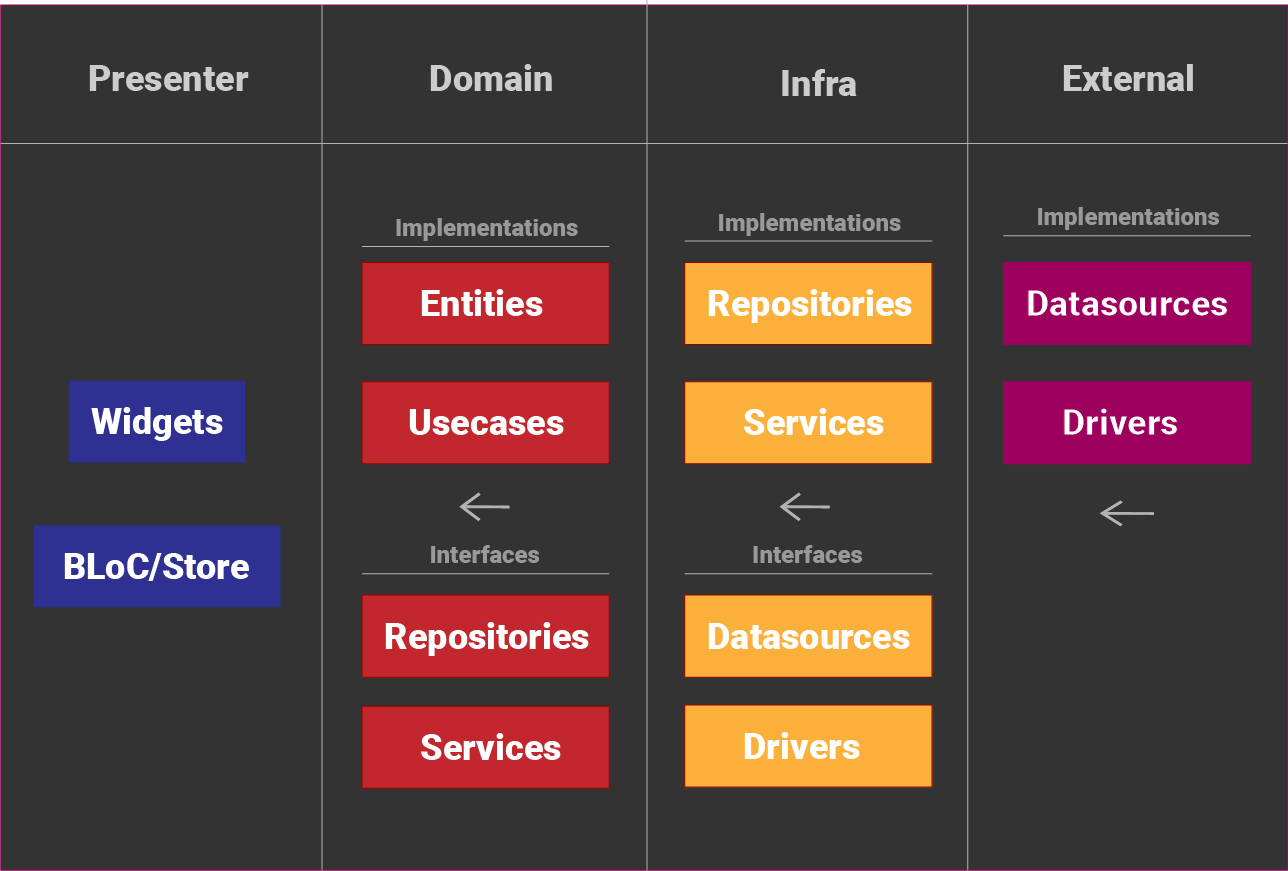
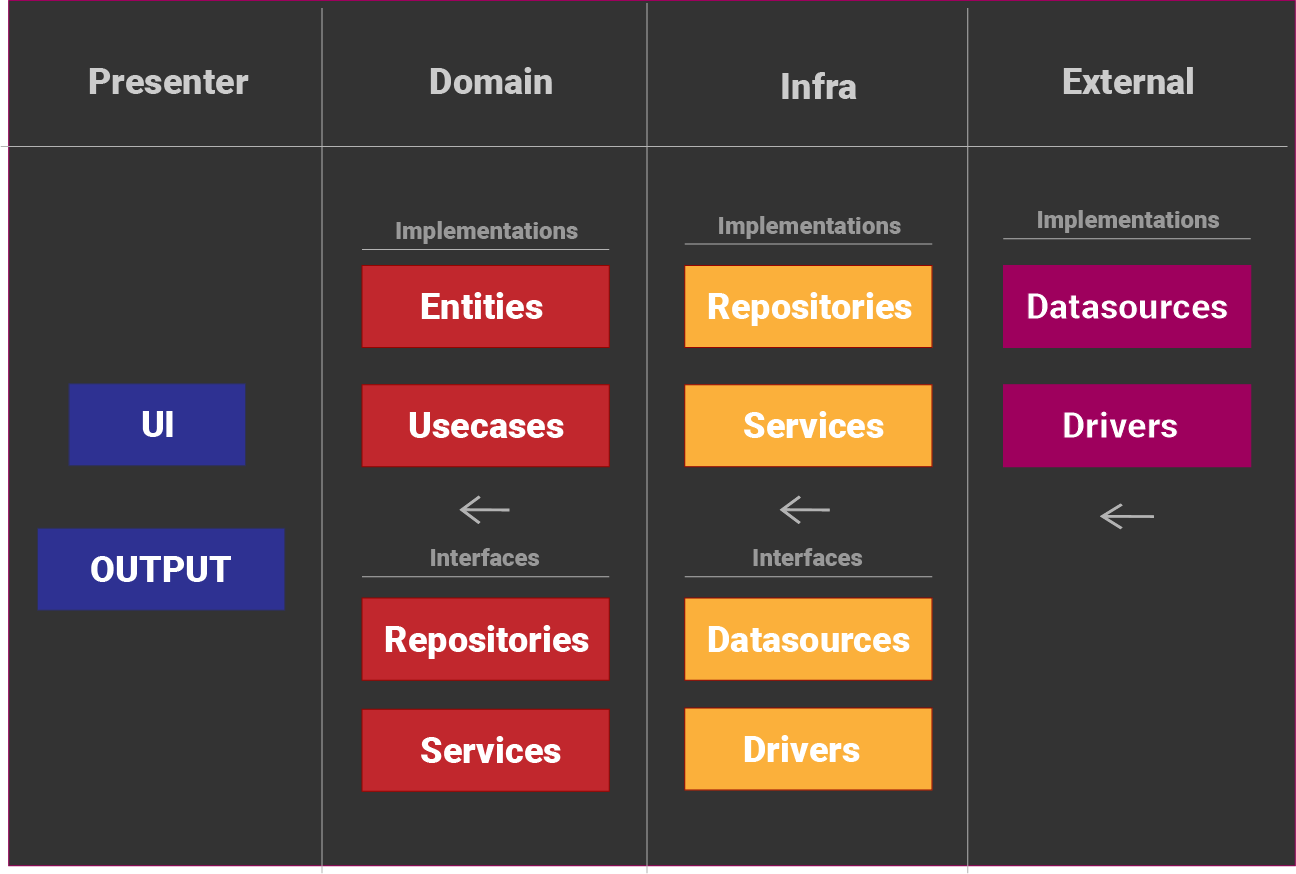
fix texts

diff --git a/README.md b/README.md
@@ -20,16 +20,16 @@ Para essa proposta nos basearemos nas camadas da Arquitetura Limpa proposta por 
 
 ## Regras de Negócio Corporativas
 
-São as regras de negócio cruciais para a sua aplicação, são representadas por modelos de dados denominado "Entidades", essa camada tem as regras mais sensíveis de um sistema, por isso ela está no topo das camadas. Uma "Entidade" deve ser pura, ou seja, não deve conhecer nenhuma outra camada, porém é conhecida pelas outras camadas.
+São as regras de negócio cruciais para a sua aplicação, são representadas por modelos de dados denominado **"Entidades"**, essa camada tem as regras mais sensíveis de um sistema, por isso ela está no topo das camadas. Uma "Entidade" deve ser pura, ou seja, não deve conhecer nenhuma outra camada, porém é conhecida pelas outras camadas.
 
 
 ## Regras de Negócio da Aplicação
 
-São as regras que só o computador pode executar, aqui temos uma representação de comandos chamados de "Casos de Uso", e basicamente representam as ações que um usuário pode fazer na aplicação. 
+São as regras que só o computador pode executar, aqui temos uma representação de comandos chamados de **"Casos de Uso"**, e basicamente representam as ações que um usuário pode fazer na aplicação. 
 
-Um "Caso de Uso" conhece apenas as Entidades, porém não sabe nada sobre as implementações das camadas de mais baixo nível. 
+Um **"Caso de Uso"** conhece apenas as Entidades, porém não sabe nada sobre as implementações das camadas de mais baixo nível. 
 
-Se um "Caso de Uso" precisar acessar uma camada superior, deverá fazê-lo por meio de contratos definidos por uma interface, seguindo o “Princípio de Inversão de Dependências” do [SOLID](https://www.youtube.com/watch?v=mkx0CdWiPRA).
+Se um **"Caso de Uso"** precisar acessar uma camada superior, deverá fazê-lo por meio de contratos definidos por uma interface, seguindo o **“Princípio de Inversão de Dependências”** do [SOLID](https://www.youtube.com/watch?v=mkx0CdWiPRA).
 
 
 ## Adaptadores de Interface
@@ -39,20 +39,20 @@ Essa camada é responsável por “dar suporte” para as camadas mais altas (Re
 
 ## Frameworks & Drivers
 
-Todas as abstrações feitas pelas camadas mais altas foram para que você facilmente plugue artefatos externos como uma BASE DE DADOS ou uma INTERFACE DE USUÁRIO.
+Todas as abstrações feitas pelas camadas mais altas foram para aumentar a facilidade do plugin&play dos artefatos externos como uma BASE DE DADOS ou uma INTERFACE DE USUÁRIO(UI).
 
-Essa camada normalmente sofre muitas modificações, porém com uma arquitetura limpa aplicada isso pode ser completamente indolor. 
+Essa camada normalmente sofre muitas modificações, porém com uma arquitetura limpa aplicada isso pode ser completamente indolor e segura para a sua regra de negócio.
 
-Você poderá trocar uma API REST por outra em GraphQl sem afetar suas regras de negócio. Você poderá trocar sua interface gráfica completamente ou até mesmo trocar do Flutter para o AngularDart que as Regras de Negócio ainda assim ficarão funcionais!
+Podemos então trocar uma API REST por outra em GraphQl sem afetar suas regras de negócio. Poderemos também trocar a interface gráfica completamente ou até mesmo trocar o Flutter pelo AngularDart e mesmo assim as Regras de Negócio ficarão funcionais!
 
-Dado as descrições iremos apresentar a proposta de Arquitetura Limpa da Flutterando, a “Clean Dart”.
+Dado as descrições iremos apresentar a proposta de Arquitetura Limpa da Flutterando, a **“Clean Dart”**.
 
 
 # Clean Dart
 
 ![Image 1](imgs/img1.png)
 
-Usando o Flutter como exemplo teremos então quatro camadas mantendo a “Arquitetura de Plugin”, com foco principal no Domínio da Aplicação, camada esta que hospeda as 2 Regras de Negócio principais, Entidades e Casos de Uso.
+Usando o Flutter como exemplo teremos então quatro camadas mantendo a “Arquitetura de Plugin”, com foco principal no Domínio da Aplicação, camada esta que hospeda as 2 Regras de Negócio principais, estamos falando das **Entidades** e dos **Casos de Uso**.
 
 ![Image 1](imgs/img2.png)
 
@@ -61,51 +61,61 @@ A proposta de Arquitetura se propõe a desacoplar as camadas mais externas e pre
 
 ## Presenter
 
-A Camada de Presenter fica responsável por declarar as entradas, saídas e interações da aplicação. 
+A Camada **Presenter** fica responsável por declarar as entradas, saídas e interações da aplicação. 
 
 Usando o Flutter como exemplo, hospedaremos os Widgets, Pages e também Alguma Gerência de Estado, já no backend como exemplo, seria nesta camada onde colocaríamos os Handlers ou Commands da nossa API.
 
 
 ## Domain
 
-A camada de Domain hospedará as Regras de Negócio Corporativa(Entity) e da Aplicação(Usecase).
+A camada de **Domain** hospedará as Regras de Negócio Corporativa(Entity) e da Aplicação(Usecase).
 
-Nossas Entidades devem ser Objetos simples podendo conter regras de validação dos seus dados por meio de funções ou ValueObjects. A Entidade não pode usar nenhum Objeto das outras camadas.
+Nossas Entidades devem ser Objetos simples podendo conter regras de validação dos seus dados por meio de funções ou ValueObjects. **A Entidade não deve usar nenhum Objeto das outras camadas.**
 
-Os Casos de Uso devem executar a lógica necessária para resolver o problema. Se o Caso de Uso precisar de algum acesso externo deve ser feito por meio de contratos de interface.
+Os **Casos de Uso** devem executar a lógica necessária para resolver o problema. Se o **Caso de Uso** precisar de algum acesso externo então esse acesso deve ser feito por meio de contratos de interface que serão implementados em uma camada de mais baixo nível.
 
-Na camada Domain a única coisa que dever ser responsável apenas pela execução da lógica de negócio, não deve haver implementações de outros Objetos como Repositories ou Services dentro do Domain. 
+Na camada **Domain** dever ser responsável apenas pela execução da lógica de negócio, não deve haver implementações de outros Objetos como Repositories ou Services dentro do **Domain**. 
 
-Já em Repository como exemplo, teremos que ter apenas o contrato de interfaces e a responsabilidade de implementação desse objeto deverá ser repassado a outra camada mais baixa.
+Tomando um Repository como exemplo, teremos que ter apenas o contrato de interfaces(Abstrações) e a responsabilidade de implementação desse objeto deverá ser repassado a outra camada mais baixa.
 
 
 ## Infrastructure(Infra)
 
-Está camada dá suporte a camada Domain implementando suas interfaces. Para isso, essa camada se propõem a adaptar os dados externos para que possa cumprir os contratos do domínio.
+Está camada dá suporte a camada **Domain** implementando suas interfaces. Para isso, essa camada se propõem a adaptar os dados externos para que possa cumprir os contratos do domínio.
 
-Muito provavelmente nessa camada iremos implementar alguma interface de Repository ou Services que pode ou não depender de dados externos como uma API ou acesso a algum Hardware como por exemplo Bluetooth. 
+Muito provavelmente nessa camada iremos implementar alguma interface de um Repository ou Services que pode ou não depender de dados externos como uma API ou acesso a algum Hardware como por exemplo Bluetooth. 
 
 Para que o Repository possa processar e adaptar os dados externos devemos criar contratos para esses serviços visando passar a responsabilidade de implementação para a camada mais baixa da nossa arquitetura.
 
-Como sugestão, iremos criar objetos de DataSource quando quisermos acessar um dado externo, uma BaaS como Firebase ou um Cache Local usando SQLite por exemplo.
-Outra sugestão seria criar objetos denominados Drivers para interfacear a comunicação com algum Hardware do dispositivo.
+Como sugestão, iremos criar objetos de **DataSource** quando quisermos acessar um dado externo, uma BaaS como Firebase ou um Cache Local usando SQLite por exemplo.
+Outra sugestão seria criar objetos denominados **Drivers** para interfacear a comunicação com algum Hardware do dispositivo.
 
 Os acessos externos como Datasources e Drivers devem ser implementados por outra camada, ficando apenas os Contratos de Interface nesta camada de Infra.
 
 
 ## External
 
-Aqui começaremos a implementar os acessos externos e que dependem de um serviço, package ou acesso muito específico.
+Aqui começaremos a implementar os acessos externos e que dependem de um hardware, package ou acesso muito específico.
 
-Basicamente a camada External deve conter tudo aquilo que terá grandes chances de ser alterado sem que você possa intervir.
+Basicamente a camada External deve conter tudo aquilo que terá grandes chances de ser alterado sem que o programador possa intervir diretamente no projeto.
 
-No Flutter por exemplo, para cache local usamos o SharedPreferences, mas talvez em alguma estágio do projeto a implementação do SharedPreferences não seja mais suficiente para a aplicação e deve ser substituída por outro package como Hive, nesse ponto a única coisa que precisamos fazer é criar uma nova classe, implementando o Contrato esperado pela camada mais alta (que seria a Infra) e implementarmos a Lógica usando o Hive.
+No Flutter por exemplo, para cache local usamos o SharedPreferences, mas talvez em alguma estágio do projeto a implementação do SharedPreferences não seja mais suficiente para a aplicação e deve ser substituída por outro package como Hive, nesse ponto a única coisa que precisamos fazer é criar uma nova classe, implementando o Contrato esperado pela camada mais alta (que seria a **Infra**) e implementarmos a Lógica usando o Hive.
 
 Um outro exemplo prático seria pensar em um Login com Firebase Auth, porém outro produto deseja utilizar um outro provider de autenticação. Bastaria apenas implementar um datasource baseado no outro provider e “Inverter a Dependência” substituindo a implementação do Firebase pela nova quando for necessário.
 
 Os Datasources devem se preocupar apenas em “descobrir” os dados externos e enviar para a camada de Infra para serem tratados.
 
-Da mesma forma os objetos Drivers devem apenas retornar as informações solicitadas sobre o Hardware do Device e não devem fazer tratamento fora ao que lhe foi solicitado no contrato.
+Da mesma forma os objetos **Drivers** devem apenas retornar as informações solicitadas sobre o Hardware do Device e não devem fazer tratamento fora ao que lhe foi solicitado no contrato.
+
+# Assine!
+
+Apreciariamos o seu Feedback!
+Se concorda com a Proposta de Arquitetura Limpa "Clean Dart" faça isso deixando uma **Star** desse repositório. Deixando uma **Star** é o mesmo que assinar um "manifesto limpo".
+
+Estamos abertos a sugestões e melhorias na documentação!
+Faça isso por meio das [issues](https://github.com/Flutterando/Clean-Dart/issues), nossa equipe ficará muito contente com seu interesse de melhorar essa ferramenta para a comunidade.
+
+Sinta-se a vontade para abrir um **PR** com correções na documentação dessa proposta.
 
 # Exemplos
 
